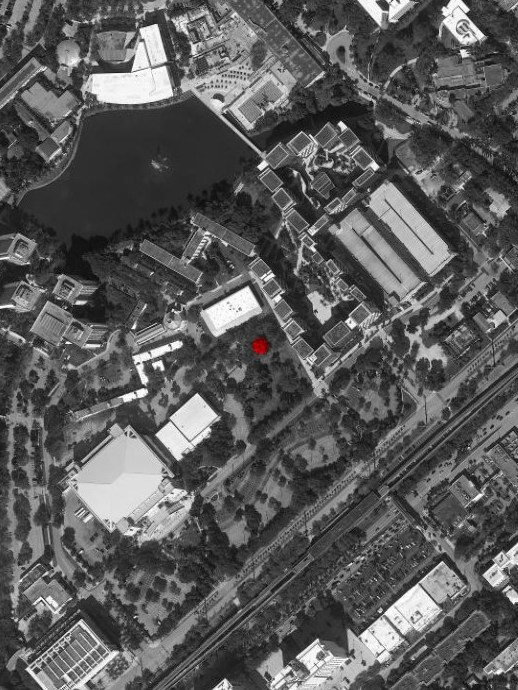
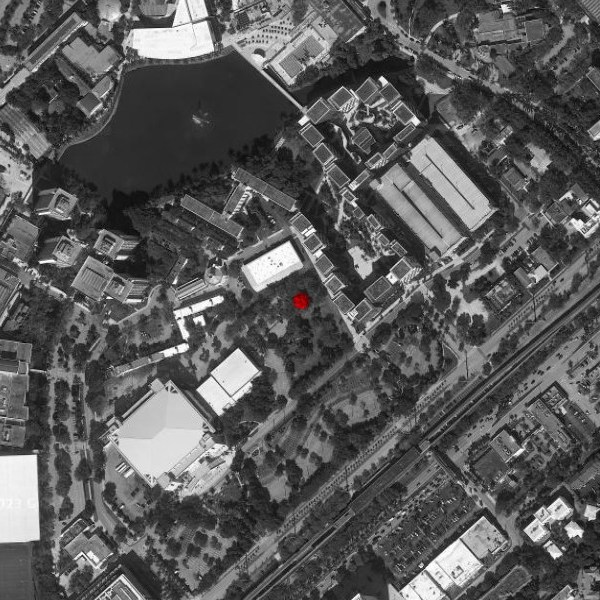
Beside-text site plans square again; details row spreads to the plan's right edge

diff --git a/css/style.css b/css/style.css
@@ -506,9 +506,9 @@ html.menu-entering .layout > :not(.menu) {
   margin-top: 1em;
 }
 
-/* desktop: a site plan crop (3:4) beside the description (besideText), its right edge
+/* desktop: a square site plan crop beside the description (besideText), its right edge
    on the gallery's right edge and its top level with the description's first line;
-   the details row above stays as it is on every project page */
+   the details row above spreads to the same right edge */
 .head-beside {
   display: none;
 }
@@ -525,6 +525,11 @@ html.menu-entering .layout > :not(.menu) {
   .project-head.has-beside > h1,
   .project-head.has-beside > .meta {
     grid-column: 1 / -1;
+  }
+
+  /* last detail ends on the site plan's right edge */
+  .project-head.has-beside > .meta {
+    max-width: none;
   }
 
   .project-head.has-beside .lede {

diff --git a/project.html b/project.html
@@ -29,7 +29,7 @@
   <link rel="icon" href="assets/img/favicon.svg" type="image/svg+xml">
   <link rel="icon" href="assets/img/favicon-32.png" sizes="32x32" type="image/png">
   <link rel="apple-touch-icon" href="assets/img/apple-touch-icon.png">
-  <link rel="stylesheet" href="css/style.css?v=67">
+  <link rel="stylesheet" href="css/style.css?v=68">
 </head>
 <body data-page="project">
 
@@ -52,7 +52,7 @@
     <article class="project" id="project"></article>
   </main>
 
-  <script src="js/projects.js?v=67"></script>
-  <script src="js/main.js?v=67"></script>
+  <script src="js/projects.js?v=68"></script>
+  <script src="js/main.js?v=68"></script>
 </body>
 </html>

diff --git a/index.html b/index.html
@@ -34,7 +34,7 @@
   <link rel="preconnect" href="https://fonts.googleapis.com">
   <link rel="preconnect" href="https://fonts.gstatic.com" crossorigin>
   <link rel="stylesheet" href="https://fonts.googleapis.com/css2?family=Inter:wght@400;700&display=swap">
-  <link rel="stylesheet" href="css/style.css?v=67">
+  <link rel="stylesheet" href="css/style.css?v=68">
 </head>
 <body data-page="index">
 
@@ -161,7 +161,7 @@
     </div>
   </main>
 
-  <script src="js/projects.js?v=67"></script>
-  <script src="js/main.js?v=67"></script>
+  <script src="js/projects.js?v=68"></script>
+  <script src="js/main.js?v=68"></script>
 </body>
 </html>

diff --git a/js/projects.js b/js/projects.js
@@ -60,7 +60,7 @@
 */
 
 // Bump whenever an image file is replaced under the same name, so browsers fetch the new one
-const IMAGE_VERSION = 23;
+const IMAGE_VERSION = 24;
 
 const CATEGORIES = [
   { id: "academic", label: "Academic", prefix: "A" },
